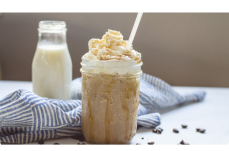
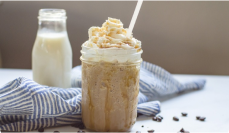
Add carrusel images

diff --git a/index.html b/index.html
@@ -88,14 +88,46 @@
           <div class="cold-coffee">
             <div class="swiper mySwiper">
             <div class="swiper-wrapper">
-              <div class="swiper-slide swiper-slide1"></div>
-              <div class="swiper-slide swiper-slide2"></div>
-              <div class="swiper-slide swiper-slide3"></div>
-              <div class="swiper-slide swiper-slide4"></div>
-              <div class="swiper-slide swiper-slide5"></div>
-              <div class="swiper-slide swiper-slide6"></div>
-              <div class="swiper-slide swiper-slide7"></div>
-              <div class="swiper-slide swiper-slide8"></div>
+              <div class="swiper-slide">
+                <figure>
+                  <img src="/assets/menu_item_1.png" alt="">
+                </figure>
+              </div>
+              <div class="swiper-slide">
+                <figure>
+                  <img src="/assets/menu_item_2.png" alt="">
+                </figure>
+              </div>
+              <div class="swiper-slide">
+                <figure>
+                  <img src="/assets/menu_item_3.png" alt="">
+                </figure>
+              </div>
+              <div class="swiper-slide">
+                <figure>
+                  <img src="/assets/menu_item_4.png" alt="">
+                </figure>
+              </div>
+              <div class="swiper-slide">
+                <figure>
+                  <img src="/assets/menu_item_5.png" alt="">
+                </figure>
+              </div>
+              <div class="swiper-slide">
+                <figure>
+                  <img src="/assets/menu_item_6.png" alt="">
+                </figure>
+              </div>
+              <div class="swiper-slide">
+                <figure>
+                  <img src="/assets/menu_item_7.png" alt="">
+                </figure>
+              </div>
+              <div class="swiper-slide">
+                <figure>
+                  <img src="/assets/menu_item_8.png" alt="">
+                </figure>
+              </div>
             </div>
             <div class="swiper-button-next"></div>
             <div class="swiper-button-prev"></div>

diff --git a/global.css b/global.css
@@ -200,13 +200,15 @@ html {
   border-radius: 20px;
   flex-shrink: 0;
   transition: transform 0.3s;
+  padding-top: 15px;
+  padding-left: 15px;
 }
 
 .swiper-slide img {
   display: block;
-  width: 100%;
-  height: 100%;
-  object-fit: cover;
+  width: 225px;
+  height: 150px;
+  border-radius: 20px;
 }
 
 .swiper-slide-active {
